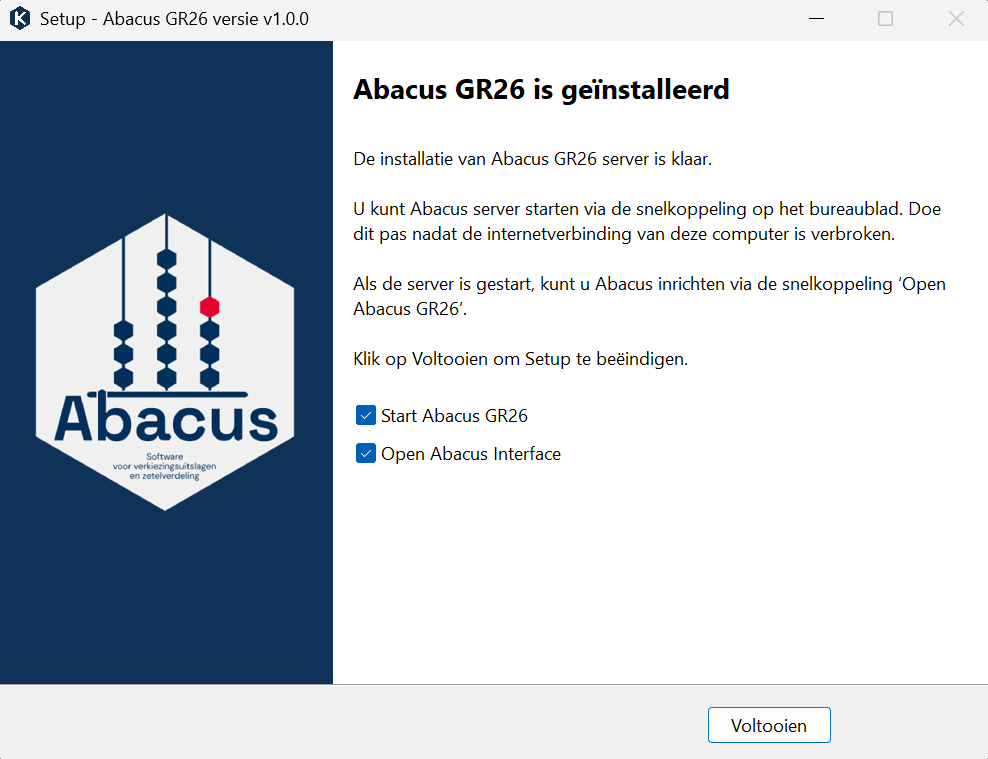
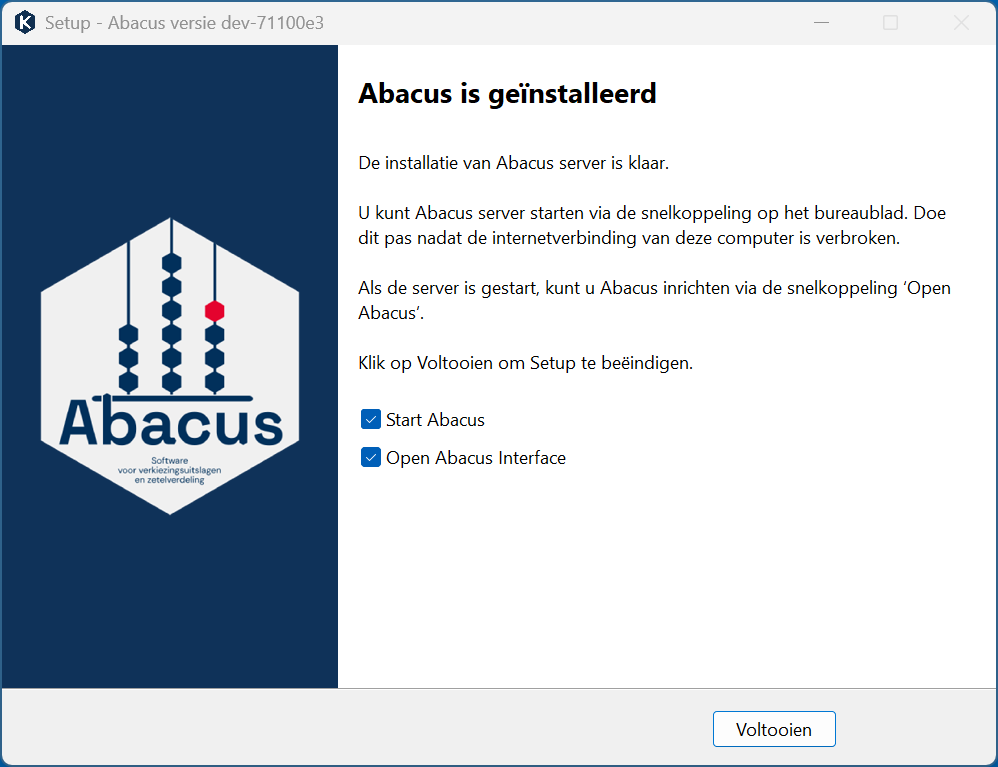
Gebruikersdocumentatie: uitbreiding installatie-instructies en TLS (#107)

diff --git a/gebruikersdocumentatie/src/installatie/installeren-starten/netwerk.md b/gebruikersdocumentatie/src/installatie/installeren-starten/netwerk.md
@@ -1,21 +1,60 @@
 # Netwerk inrichten
 
-Voordat je Abacus installeert is het belangrijk dat het netwerk goed is ingericht. Dit netwerk kun je op dezelfde manier opzetten als bij OSV2020, en je kunt Abacus en OSV2020 dan ook op dezelfde computer draaien. 
+Voordat je Abacus installeert is het belangrijk dat het netwerk goed is ingericht. De regels hiervoor staan in de aansluit- en gebruiksvoorwaarden, die je vindt in de toolkit van de verkiezing op de website van de Kiesraad. Dit netwerk kun je op dezelfde manier opzetten als bij OSV2020.
 
-## Netwerk zonder internet
+Je installeert Abacus op één computer die dient als server. De andere computers zijn clients en maken via de browser verbinding met de Abacus-server. Abacus mag alleen gebruikt worden in een netwerk dat niet verbonden is met het internet. Dit noemen we ook wel een *airgapped* netwerk.
 
-Je installeert Abacus op één computer die dient als server. De andere computers zijn clients en maken via de browser verbinding met de Abacus-server. Abacus mag alleen gebruikt worden in een netwerk dat niet verbonden is met het internet. Dit noemen we ook wel een *airgapped* netwerk. Volg daarom deze richtlijnen:
+## Benodigdheden
 
-- Installeer de meest recente updates van het besturingssysteem voordat je de verbinding met het internet verbreekt.
-- De computers die je gebruikt moeten worden aangesloten op een bedraad lokaal netwerk en mogen op geen enkele manier verbonden zijn met het internet.
-Zorg dat alle aanwezige draadloze communicatiemodules zoals wifi en Bluetooth zijn gedeactiveerd.
+- Een hub of netwerkapparaat
+- Een server en een aantal clients
+- Voldoende ethernetkabels voor alle apparaten
+
+## Opzet van het netwerk
+
+Zo stel je het netwerk in:
+
+- Gebruik een hub of netwerkapparaat met voldoende poorten. Als je meer clients gebruikt dan er poorten zijn, dan kun je één of meer (unmanaged) switches aansluiten tussen het netwerkapparaat en de clients.
+- Sluit de server met een ethernetkabel aan op het netwerkapparaat, en doe hetzelfde met de clients en optioneel met de printer.
+
+![Voorbeeld van een air-gapped netwerk](./img/diagram-netwerk.png)
+
+## Statische IP-adressen
+
+Geef alle computers een vast (statisch) IP-adres, zodat je ze altijd kunt identificeren. In het voorbeeld worden IP-adressen in de reeks `192.168.1.0/24` gebruikt.
+
+### Op Windows
+
+- Klik op **Win+R** en zoek op `ncpa.cpl` om de klassieke weergave voor netwerkverbindingen te openen.
+- Klik met de rechtermuisknop op de ethernetverbinding en klik op **Eigenschappen**.
+- Selecteer de regel **Network Protocol Version 4 (TCP/IPv4)** en klik op **Eigenschappen**.
+- Selecteer **Het volgende IP-adres gebruiken:** en voer het IP-adres in. Als je op het subnetmasker klikt wordt automatisch `255.255.255.0` ingevuld, dit kun je zo laten. Klik op **OK** en vervolgens op **Sluiten**.
+
+![Een statisch IP-adres instellen in Windows](./img/statisch-IP-windows.png)
+
+### Op Linux
+
+Op Linux zijn er verschillende manieren om een statisch IP toe te wijzen. Verander het IP-adres op een snelle manier met de volgende opdracht:
+
+```
+sudo ip addr add 192.168.1.101/24 dev eth0
+```
+
+Als je wilt dat het statische IP-adres ingesteld blijft wanneer je opnieuw opstart, voeg je de netwerkgegevens toe aan het configuratiebestand voor jouw Linux-distributie.
+
+## Airgapped netwerk
+
+Nu zorg je dat het netwerk airgapped is en er geen internetverbindingen mogelijk zijn:
+
+- Installeer op elke computer de meest recente updates van het besturingssysteem voordat je de verbinding met het internet verbreekt.
+- Zorg dat alle aanwezige draadloze communicatiemodules zoals wifi en Bluetooth zijn gedeactiveerd, ook op de printer.
 - Op de computers zelf zet je de wifi-functie uit zodat er ook op die manier geen internetverbinding kan worden gemaakt.
 - Zorg dat de datum en tijd van alle computers kloppen. Als de datum en tijd afwijken, kan dit onder andere leiden tot problemen met inloggen.
 
-Meer informatie over de vereisten voor de computer en het besturingssysteem vind je in de [Aansluit- en gebruiksvoorschriften Wet programmatuur verkiezingsuitslagen](https://www.kiesraad.nl/verkiezingen/adviezen-en-publicaties/publicaties/2025/10/23/aansluit--en-gebruiksvoorschriften-wet-programmatuur-verkiezingsuitslagen) op de website van de Kiesraad.
-
 ## Testen
 
-Wanneer Abacus op de server draait, noteer je dit IP-adres. Open vervolgens de browser op je client en ga naar dit IP-adres om te testen of de browser verbinding maakt met de Abacus-server. Maak ook een bladwijzer in de browser zodat je Abacus snel weer kunt openen. Dit doe je voor alle client-computers.
+Zorg dat Abacus op de server draait en het beveiligingscertificaat is geïnstalleerd. Open vervolgens de browser op je client en ga naar het IP-adres van de Abacus-server om te testen of de browser verbinding maakt. Maak ook een bladwijzer in de browser zodat je Abacus snel weer kunt openen. Dit doe je voor alle client-computers.
 
-**Let op:** omdat er geen SSL-certificaat aanwezig is, staat in het IP-adres alleen *http* en niet *https*. Als je browser hier een beveiligingswaarschuwing over geeft, accepteer dan het risico en ga verder.
+## Meer informatie
+
+Meer informatie over de vereisten voor de computer en het besturingssysteem vind je in het hoofdstuk [Systeemvereisten](../systeemvereisten.md).

diff --git a/gebruikersdocumentatie/src/installatie/installeren-starten/certificaat.md b/gebruikersdocumentatie/src/installatie/installeren-starten/certificaat.md
@@ -1,0 +1,86 @@
+# Beveiligingscertificaat
+
+Abacus gebruikt HTTPS en daarvoor is een TLS-beveiligingscertificaat nodig. Hiermee zet je een versleutelde verbinding op tussen de Abacus-server en de clients. Na de installatie van Abacus is het beveiligingscertificaat beschikbaar voor installatie in het besturingssysteem of in de gebruikte browsers.
+
+Op **Windows** wordt het beveiligingscertificaat automatisch in het besturingssysteem geïnstalleerd tijdens de installatie van Abacus. Daarna installeer je het certificaat zelf op alle clients, zodat ze `https` gebruiken en een versleutelde verbinding hebben met de server.
+
+Op **Linux** wordt het beveiligingscertificaat niet automatisch in het besturingssysteem geïnstalleerd. Installeer het certificaat dus op alle computers, inclusief de server.
+
+**Let op:** als je het certificaat in het besturingssysteem installeert, lukt het mogelijk niet om het certificaat in de browser te gebruiken. Firefox gebruikt bijvoorbeeld een eigen certificaatbeheerder. Als het nog niet werkt, installeer je het certificaat in de browser volgens de instructies hieronder.
+
+## Certificaat kopiëren
+
+Voordat je het certificaat kunt installeren, moet je het naar de clients kopiëren.
+
+- Op de server open je de installatiemap van Abacus. Voor Windows is dit standaard `C:\Gebruikers\<gebruikersnaam>\AppData\Roaming\Abacus` en voor Linux `/usr/local/bin/abacus`.
+- Ga naar de map `tls`.
+- Het bestand `ca.cer` is het certificaat voor Windows en webbrowsers, en het bestand `ca.pem` is het certificaat voor Linux. Er zijn twee manieren om het certificaat op de client te zetten:
+  - Kopieer het naar een USB-stick en vervolgens naar een handige map op de client.
+  - Typ in de browser `http://<ip-van-Abacus-server>/ca.cer` of `http://<ip-van-Abacus-server>/ca.pem` (dus bijvoorbeeld `http://192.168.1.10/ca.cer`) en druk op enter. Hiermee download je het certificaat direct van de Abacus-server.
+
+## Certificaat installeren op Windows
+
+- Dubbelklik op het beveiligingscertificaat en selecteer bovenaan het tabblad **Details**.
+- In het venster selecteer je de vingerafdruk. Ter controle vergelijk je deze vingerafdruk met de SHA-1-vingerafdruk die je in de command prompt ziet wanneer je de Abacus-server opstart.
+
+Dit is de SHA-1-vingerafdruk in het certificaat:
+
+![SHA-1-vingerafdruk van het certificaat](./img/windows-sha1-vingerafdruk.png)
+
+Hier vind je de SHA-1-vingerafdruk in de command prompt:
+
+![SHA-1-vingerafdruk in de command prompt](./img/windows-vingerafdruk-cmd.png)
+
+- Ga weer terug naar het tabblad **Algemeen** en selecteer **Certificaat installeren...**.
+- Selecteer dan twee keer **Volgende** en selecteer **Voltooien**.
+
+## Certificaat installeren op Linux
+
+Voor verschillende Linux-distributies bestaan meerdere manieren om het certificaat te installeren. Hier wordt alleen de methode voor Debian en Ubuntu beschreven.
+
+- Kopieer het certificaat naar de map `/usr/local/share/ca-certificates`.
+- Vervolgens voeg je het certificaat toe aan de systeembrede certificaatset:
+
+```
+sudo update-ca-certificates
+```
+
+Ter controle vergelijk je de SHA-256-vingerafdruk van het certificaat met de SHA-256-vingerafdruk in het servicelog van de Abacus-service.
+
+- Met deze opdracht vind je de vingerafdruk van het certificaat `ca.pem`:
+
+```
+openssl x509 -in ca.pem -noout -fingerprint -sha256
+```
+
+- En met deze opdracht vind je de vingerafdruk in het servicelog:
+
+```
+sudo journalctl -I -u abacus.service
+```
+
+## Installeren in de browser
+
+Het is ook mogelijk om het beveiligingscertificaat te installeren in de browser die je gebruikt.
+
+### Microsoft Edge
+
+- Ga naar **Instellingen** → **Privacy, zoeken en services** → **Privacy** → **Certificaten beheren**.
+- Selecteer **Door u geïnstalleerd**, selecteer naast **Vertrouwde certificaten** de optie **Importeren** en selecteer het bestand `ca.cer`.
+- Selecteer **Openen** om het bestand direct te installeren.
+- Ter controle vergelijk je de SHA-256-vingerafdruk in het grijze vak met de SHA-256-vingerafdruk die je in de command prompt ziet wanneer je de Abacus-server start.
+
+### Google Chrome
+
+- Ga naar **Instellingen** → **Privacy en beveiliging** → **Beveiliging** → **Certificaten beheren**.
+- Selecteer **Geïnstalleerd door jou**, selecteer naast **Vertrouwde certificaten** de optie **Importeren** en selecteer het bestand `ca.cer`.
+- Selecteer **Openen** om het bestand direct te installeren.
+- Ter controle vergelijk je de SHA-256-vingerafdruk in het grijze vak met de SHA-256-vingerafdruk die je in de command prompt ziet wanneer je de Abacus-server start.
+
+### Firefox
+
+- Ga naar **Instellingen** → **Privacy en Beveiliging**. Helemaal onderaan de pagina selecteer je **Geavanceerde instellingen**.
+- Onder **Certificaten** selecteer je **Certificaten beheren**. Selecteer **Importeren...** en selecteer het bestand `ca.cer`.
+- Vink **Deze CA vertrouwen voor het identificeren van websites** aan.
+- Selecteer **Weergeven** om de gegevens van het certificaat te bekijken in de browser. Ter controle vergelijk je de SHA-256-vingerafdruk met de SHA-256-vingerafdruk die je in de command prompt ziet wanneer je de Abacus-server start.
+- Selecteer **OK** om het certificaat te importeren.

diff --git a/gebruikersdocumentatie/src/installatie/installeren-starten/windows.md b/gebruikersdocumentatie/src/installatie/installeren-starten/windows.md
@@ -1,7 +1,8 @@
 # Windows
 
 Met deze methode installeer je Abacus op een Windows-machine.
-Deze versie is geschikt om mee te testen. Het is nog niet de definitieve versie van Abacus. Die ontvangen de gemeenten rechtstreeks van de Kiesraad.
+
+**Let op:** Het beveiligingscertificaat wordt geïnstalleerd op Windows, en het bestand wordt in de map `tls` geplaatst in de installatiemap. Dit certificaat kun je daarna op alle computers installeren volgens de instructies in het hoofdstuk [Beveiligingscertificaat](./certificaat.md).
 
 ## Downloaden en installeren
 
@@ -10,11 +11,11 @@ Deze versie is geschikt om mee te testen. Het is nog niet de definitieve versie 
 
 ![Installatieprogramma op Windows](./img/windows-installer-intro.png)
 
-- Tijdens het installatieprogramma wordt Microsoft Visual C++ Redistributable geïnstalleerd en wordt een firewallregel ingesteld via Windows Command Prompt. Daarom zie je tijdens de installatie twee keer een pop-up waarin wordt gevraagd *Wilt u toestaan dat deze app wijzigingen aan uw apparaat aanbrengt?*. Selecteer in beide gevallen **Ja**.
+- Tijdens het installatieprogramma wordt Microsoft Visual C++ Redistributable geïnstalleerd. Ook worden de firewall en het beveiligingscertificaat ingesteld via Windows Command Prompt. Daarom zie je tijdens de installatie twee keer een pop-up waarin wordt gevraagd *Wilt u toestaan dat deze app wijzigingen aan uw apparaat aanbrengt?*. Selecteer in beide gevallen **Ja**.
 
 ![Pop-upvenster van het installatieprogramma](./img/windows-installer-toestaan.png)
 
-- Bij de melding *Het toevoegen van de firewallregel is succesvol uitgevoerd* selecteer je **OK**.
+- Bij de melding *Het instellen van de firewall en het beveiligingscertificaat is succesvol uitgevoerd* selecteer je **OK**.
 - Abacus is nu geïnstalleerd. Als je Abacus niet direct wil starten en de interface niet wil openen in de browser, zet dan de vinkjes uit. Selecteer **Voltooien** om het installatieprogramma te sluiten.
 
 ![Installatieprogramma voltooien](./img/windows-installer-geinstalleerd.png)
@@ -23,10 +24,10 @@ Deze versie is geschikt om mee te testen. Het is nog niet de definitieve versie 
 
 Bij deze installatiemethode worden drie snelkoppelingen op het bureaublad geplaatst:
 
-- Met **1. Start Abacus GR26 server** start je de Abacus-server. Gebruik deze snelkoppeling voordat je Abacus opent in de browser.
-- Met **2. Open Abacus GR26 in browser** open je de browserinterface.
-- Met **Abacus GR26 database map** open je de map met de databasebestanden.
+- Met **1. Start Abacus server** start je de Abacus-server. Gebruik deze snelkoppeling voordat je Abacus opent in de browser.
+- Met **2. Open Abacus in browser** open je de browserinterface.
+- Met **Abacus data** open je de map met alle data, zoals de databasebestanden en back-ups.
 
 ![Snelkoppelingen op het bureaublad](./img/windows-snelkoppelingen.png)
 
-**Let op:** Wanneer je de Abacus-server start, start Windows een command prompt. Zorg ervoor dat dit venster open blijft. Als je dit venster sluit wordt de Abacus-server gestopt.
+**Let op:** Wanneer je de Abacus-server start, start Windows een zwart opdrachtvenster (command prompt). Je kunt dit venster minimaliseren, maar zorg ervoor dat het open blijft. Als je dit venster sluit wordt de Abacus-server gestopt.

diff --git a/gebruikersdocumentatie/src/installatie/installeren-starten/README.md b/gebruikersdocumentatie/src/installatie/installeren-starten/README.md
@@ -1,10 +1,14 @@
 # Installeren en starten
 
-Abacus is ontwikkeld om de uitkomsten van alle stembureaus in de gemeente bij elkaar op te tellen. Abacus controleert de optellingen, zodat tel- en schrijffouten kunnen worden gedetecteerd en voorkomen. In dit document leggen we uit hoe je Abacus installeert.
+Abacus is ontwikkeld ter ondersteuning van het optellen van stembureautotalen en het vaststellen van de verkiezingsuitslag.
+
+De software controleert de handmatige tellingen en telt per niveau de resultaten van de onderliggende niveaus bij elkaar op, zodat tel- en schrijffouten kunnen worden gedetecteerd en voorkomen. Zodra bij het centraal stembureau alle totalen bij elkaar zijn opgeteld, berekent Abacus de zetelverdeling volgens de regels in de Kieswet. Abacus genereert ook de definitieve documenten van de zitting, die worden gedownload en op het uitwisselplatform worden gezet.
+
+In dit document leggen we uit hoe je Abacus installeert.
 
 Bij de onderstaande installatiemethodes is aangegeven op welke besturingssystemen ze werken.
 De methoden voor Linux werken op alle gangbare (recente) Linux-distributies en zijn getest op Ubuntu (22.04 en 24.04) en Debian (12/bookworm en 13/trixie).
-De Windows-methoden zijn getest op Windows 11.
+De Windows-methode is getest op Windows 11.
 
 Om Abacus goed te kunnen gebruiken, adviseren we het volgende (naast de systeemvereisten die je op de website van de Kiesraad vindt):
 

diff --git a/gebruikersdocumentatie/src/installatie/systeemvereisten.md b/gebruikersdocumentatie/src/installatie/systeemvereisten.md
@@ -1,11 +1,11 @@
 # Systeemvereisten
 
-Bij de gemeenteraadsverkiezingen van 2026 worden zowel OSV2020 als Abacus ingezet. Omdat beide programma's op het systeem moeten kunnen draaien volgt Abacus de systeemvereisten van OSV2020.
+Hieronder vind je de systeemvereisten voor Abacus. Deze systeemvereisten en de aansluit- en gebruiksvoorschriften vind je ook in de [Toolkit Verkiezingen gemeenteraadsverkiezingen 2026](https://www.kiesraad.nl/verkiezingen/gemeenteraden/documenten-gemeenteraadsverkiezing-2026) op de website van de Kiesraad, die ook te gebruiken zijn voor de herindelingsverkiezing:
 
-Deze systeemvereisten en de aansluit- en gebruiksvoorschriften vind je ook in de GR26 Toolkit Verkiezingen op de website van de Kiesraad:
+- Systeemvereisten OSV2020-Uitslagvaststelling
+- Aansluit- en gebruiksvoorschriften Wet programmatuur verkiezingsuitslagen
 
-- Systeemvereisten OSV2020-Uitslagvaststelling (beschikbaar in januari)
-- [Aansluit- en gebruiksvoorschriften Wet programmatuur verkiezingsuitslagen](https://www.kiesraad.nl/verkiezingen/adviezen-en-publicaties/publicaties/2025/10/23/aansluit--en-gebruiksvoorschriften-wet-programmatuur-verkiezingsuitslagen)
+[comment]: <> (De toolkit is nog niet bijgewerkt, links volgen later. De systeemvereisten kunnen het beste blijven staan, want de kans dat die veranderen is klein.)
 
 ## Processortype
 

diff --git a/gebruikersdocumentatie/src/SUMMARY.md b/gebruikersdocumentatie/src/SUMMARY.md
@@ -15,6 +15,7 @@
     - [Netwerk inrichten](./installatie/installeren-starten/netwerk.md)
     - [Installeren op Windows](./installatie/installeren-starten/windows.md)
     - [Installeren op Linux](./installatie/installeren-starten/linux.md)
+    - [Beveiligingscertificaat](./installatie/installeren-starten/certificaat.md)
   - [Starten met lege database](./installatie/lege-database.md)
   - [Help](./installatie/help.md)
   - [Testdocumenten](./installatie/testdocumenten.md)

diff --git a/gebruikersdocumentatie/src/installatie/installeren-starten/linux.md b/gebruikersdocumentatie/src/installatie/installeren-starten/linux.md
@@ -2,6 +2,8 @@
 
 Met deze methode installeer je Abacus op een Linux-machine.
 
+**Let op:** Het beveiligingscertificaat wordt tijdens de installatie in de map `tls` geplaatst in de installatiemap. Dit certificaat kun je daarna op alle computers installeren volgens de instructies in het hoofdstuk [Beveiligingscertificaat](./certificaat.md).
+
 ## Downloaden
 
 - Je downloadt Abacus via Rijkscloud SecureFileTransfer. Deze link krijg je van de Kiesraad.
